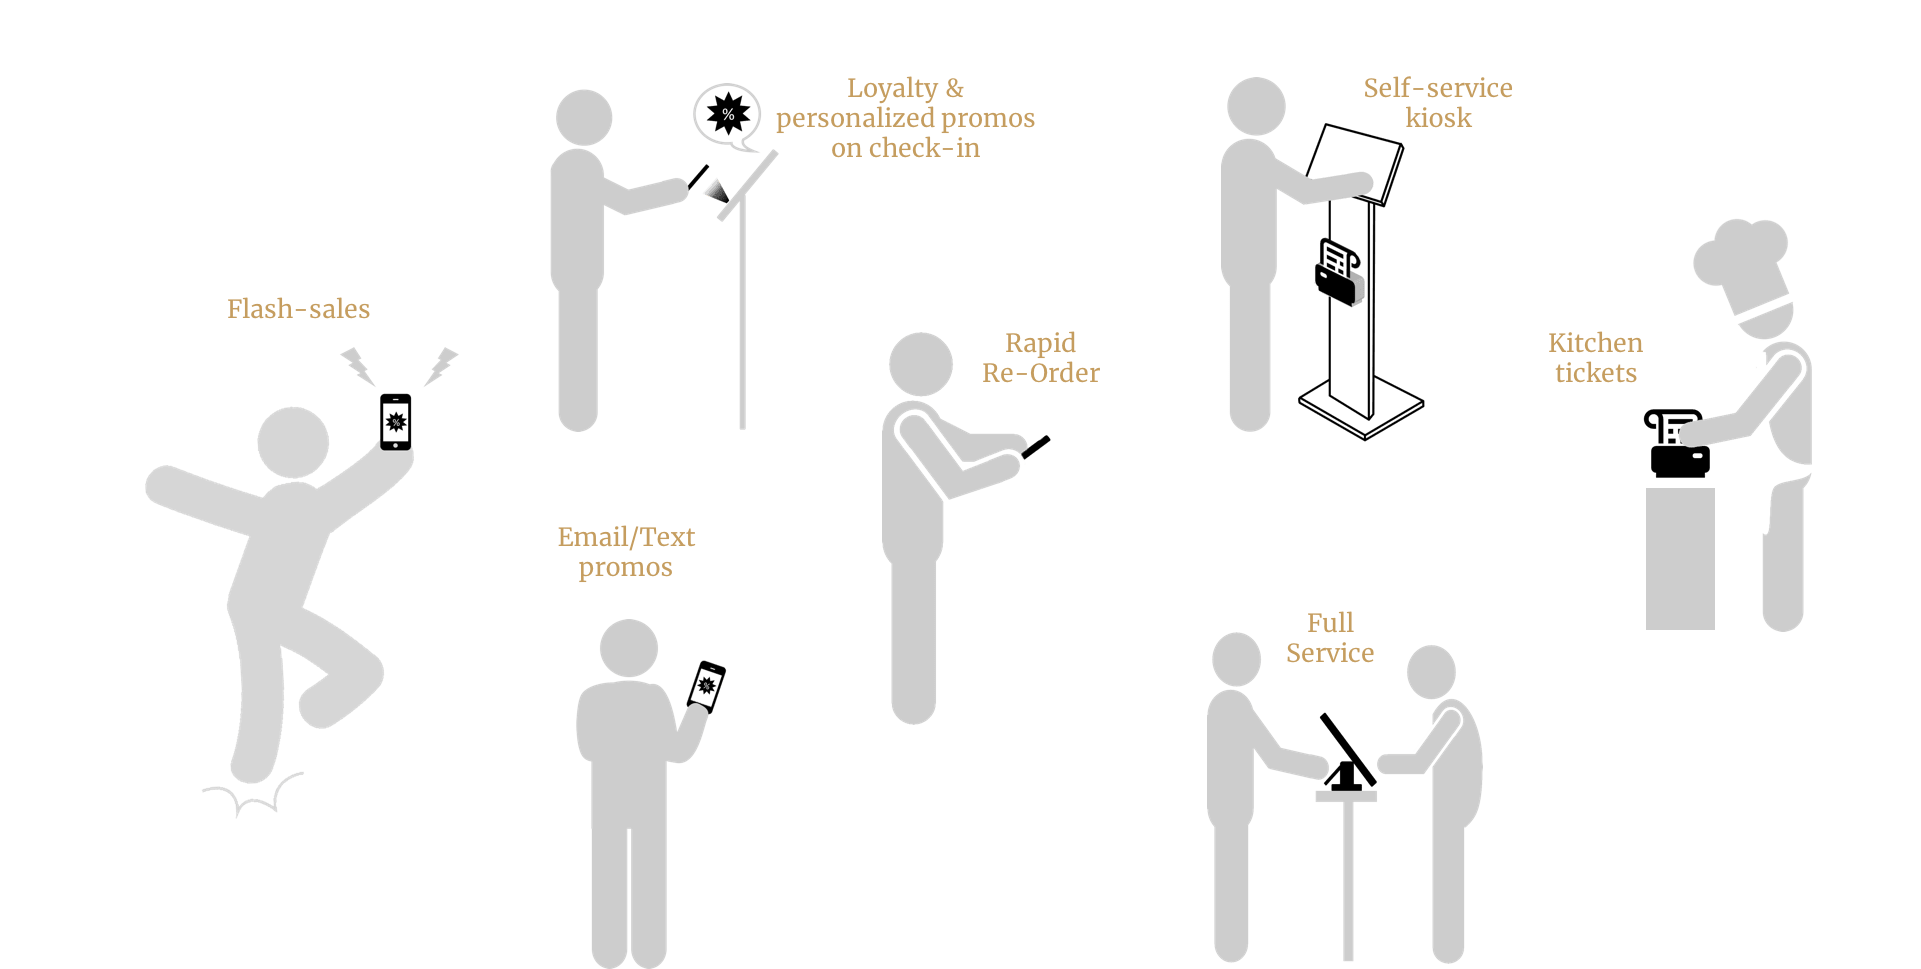
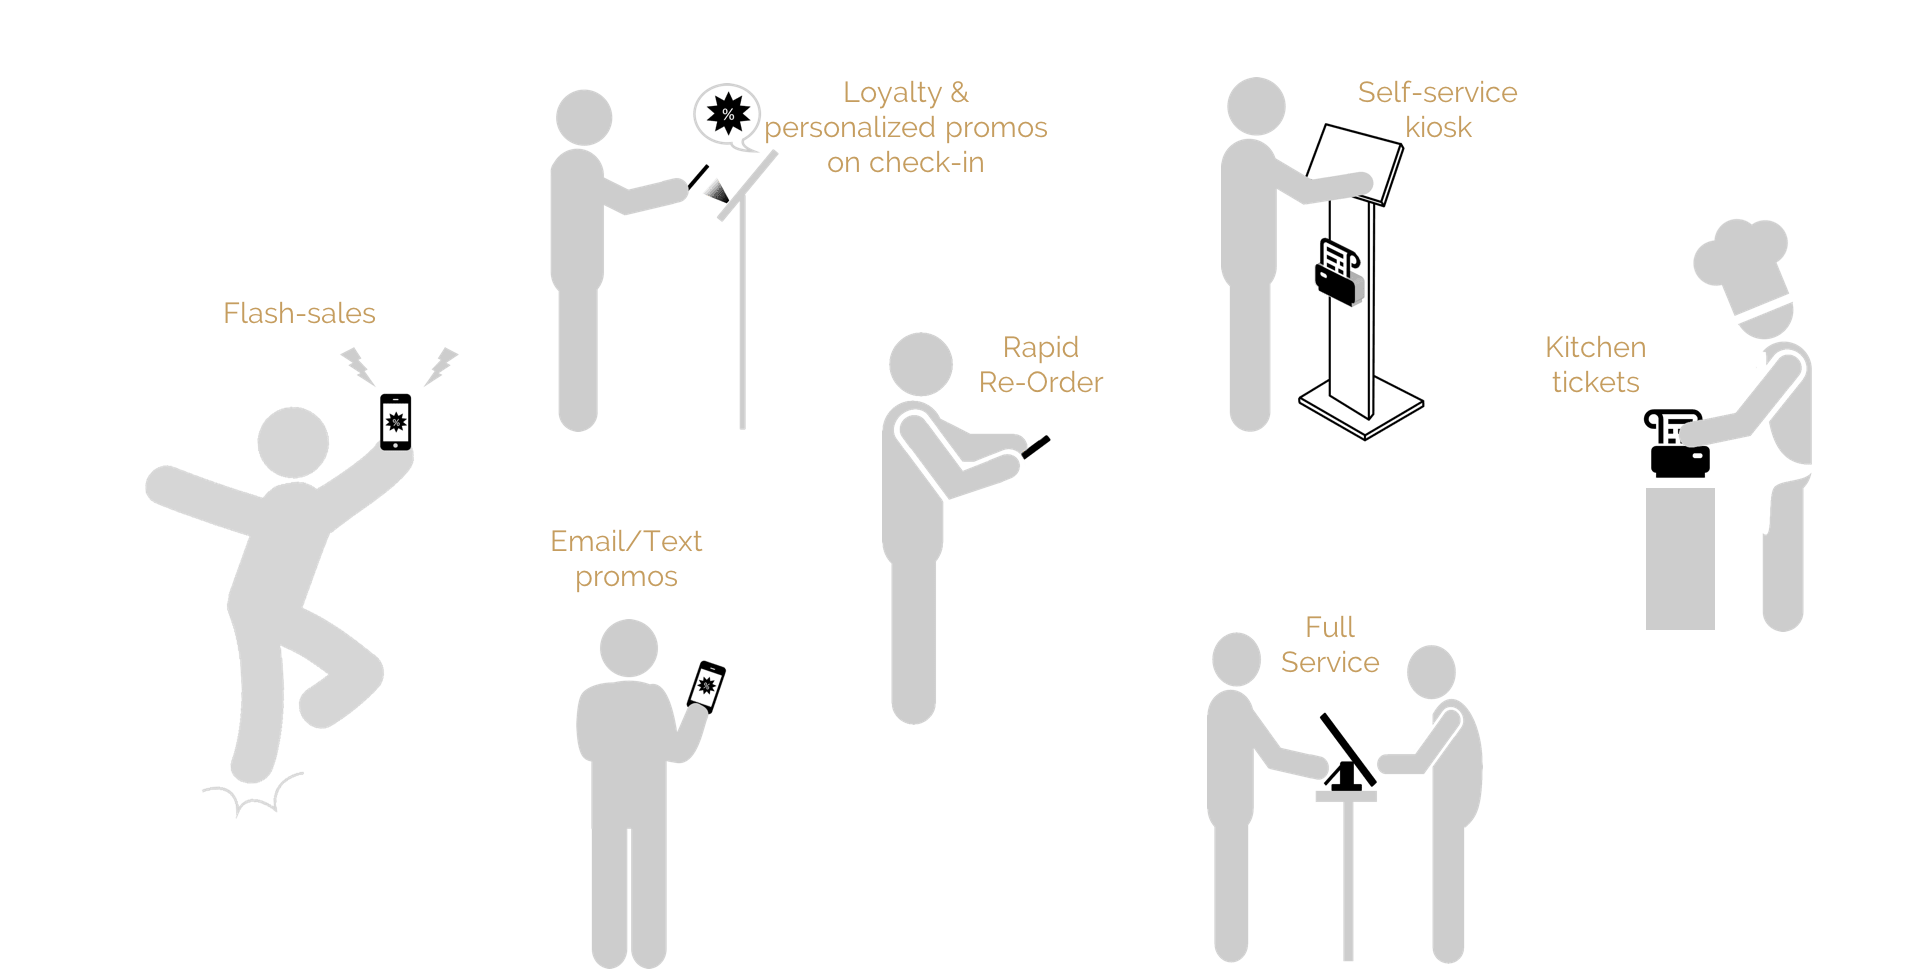
update

diff --git a/app/app_sitelette/sitefiles/pages/content_index.html b/app/app_sitelette/sitefiles/pages/content_index.html
@@ -127,9 +127,9 @@
 
 
 		<!-- -->
-		<div class="row   self_service_block">
+		<div class="row  ">
 			<div class="col-xs-12 col-sm-8 col-sm-offset-2 col-md-5 col-md-offset-1 left_block">
-				<span class="title">Free up staff with a self-service Kiosk</span>
+				<span class="feature_title">Free up staff with a self-service Kiosk</span>
 				<p class="feature_text">
 					You want to add an extra sales counter without hiring an extra employee? Use the built-in self-service kiosk. The kiosk doesn't take a break, never calls in sick. It takes all forms of credit cards, it prints receipts/tickets, and alerts you to new orders
 					in multiple ways. Big corporations are already using self-service, now you can too.
@@ -140,9 +140,9 @@
 			</div>
 		</div>
 		<!-- -->
-		<div class="row   email_block">
+		<div class="row  ">
 			<div class="col-xs-12 col-sm-8 col-sm-offset-2 col-md-5 col-md-offset-1 left_block">
-				<span class="feature_text">Reduce waste with instant promos</span>
+				<span class="feature_title">Reduce waste with instant promos</span>
 				<p class="feature_text">
 					With a few taps create an instant promotion in seconds, like half-price after 8:30pm, or 20% off when it is raining. Customers can share the deals on social media, pay via mobile, redeem in-store, right at the point-of-sale. No need to pay some third-party
 					middleman lots of money to send your email and text promotions. You can pass on the savings to your customers.
@@ -166,9 +166,9 @@
 			</div>
 		</div>
 	-->
-		<div class="row how_works_block engage_block">
+		<div class="row  ">
 			<div class="col-xs-12 col-sm-8 col-sm-offset-2 col-md-5 col-md-offset-1 left_block">
-				<span class="title">In-store Check-In for loyalty and more</span>
+				<span class="feature_title">In-store Check-In for loyalty and more</span>
 				<p class="feature_text">
 					Instead of checking-in with some third-party app, let your customers check-in with you. For your Loyalty Program, or for earning Check-in Points, you can decide how you want to reward your customers. The check-in code is in every email and receipt. Your
 					customers don't even have to hassle with AppleStore or GooglePlay, there is nothing to download or install.
@@ -206,10 +206,10 @@
 			</div>
 		</div>
 	  -->
-		<div class="row   mobile_app_block">
+		<div class="row   ">
 			<div class="col-xs-12 col-sm-8 col-sm-offset-2 col-md-5 col-md-offset-1 left_block">
-				<span class="title">Get mobile orders straight into your POS</span>
-				<p class="text">
+				<span class="feature_title">Get mobile orders straight into your POS</span>
+				<p class="feature_text">
 					Do you have to keep an eye on multiple iPads from third parties in-case you are getting a mobile order? And do you have to copy orders over to your system, at the end of the day? Wouldn't it be nice if everything was streamlined and mobile orders came
 					through the same point-of-sale, printing tickets for your kitchen like your normal orders? The Chalkboards POS comes with its matching mobile ordering link that is embedded in all receipts and emails.
 				</p>
@@ -220,10 +220,10 @@
 		</div>
 
 
-		<div class="row   mobile_app_block">
+		<div class="row   ">
 			<div class="col-xs-12 col-sm-8 col-sm-offset-2 col-md-5 col-md-offset-1 left_block">
-				<span class="title">Customize your menu/catalog anytime</span>
-				<p class="text">
+				<span class="feature_title">Customize your menu/catalog anytime</span>
+				<p class="feature_text">
 					Take advantage of changes in the market, create and add a new item or hide one temporarily with just a few taps. Setup weekday/weekend menus that will switch automatically to serve your customers better. The menu/catalog editor is built right into the
 					POS, no need to call someone and waste time on hold. Edit in one place and it is reflected in all stations immidiately, even on mobile webapps.
 					<br> There is a full suite of backoffice functions built into the POS. Optmize your offerings to maximize your profits and minimize waste.

diff --git a/app/app_sitelette/sitefiles/css/orinoco_theme_style.css b/app/app_sitelette/sitefiles/css/orinoco_theme_style.css
@@ -154,7 +154,7 @@ nav.navbar-no-border {
 }
 
 .feature_text {
-  font-family: 'Merriweather', 'Georgia', sans-serif;
+  font-family: 'Raleway', 'Arial', sans-serif;
   font-weight: 300;
   font-size: 16px;
   line-height: 1.3em;
@@ -162,7 +162,7 @@ nav.navbar-no-border {
 }
 
 .row sub_heading_block {
-  font-family: 'Merriweather', 'Arial', sans-serif;
+  font-family: 'Raleway', 'Arial', sans-serif;
   font-weight: 300;
   font-size: 18px;
   line-height: 1.2em;

diff --git a/app/app_sitelette/sitefiles/includes/stylesheets.html b/app/app_sitelette/sitefiles/includes/stylesheets.html
@@ -6,6 +6,10 @@
 ================================================== -->
 <meta name="viewport" content="width=device-width, initial-scale=1">
 
+<!-- Fonts
+================================================== -->
+<link href="https://fonts.googleapis.com/css?family=Raleway" rel="stylesheet">
+
 <!-- CSS
 ================================================== -->
 <!-- Bootstrap -->
